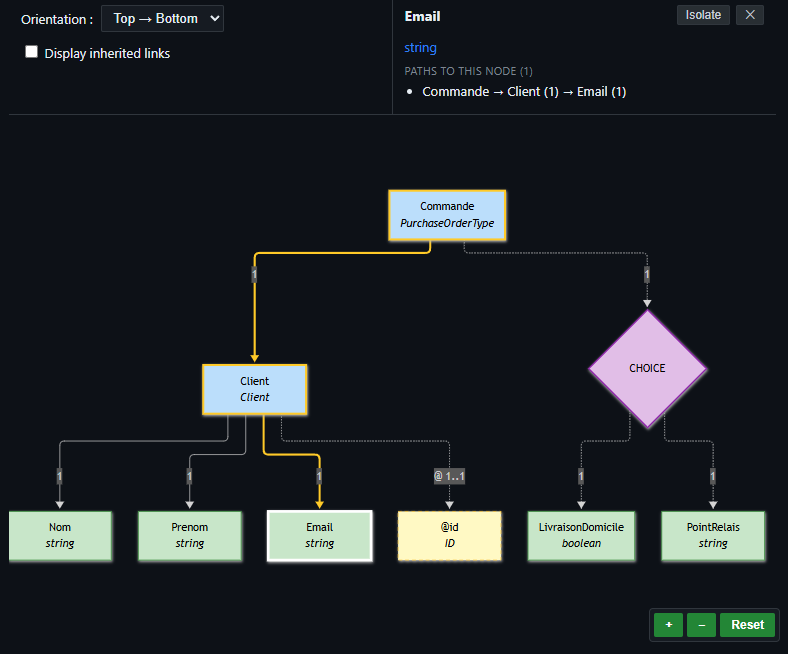
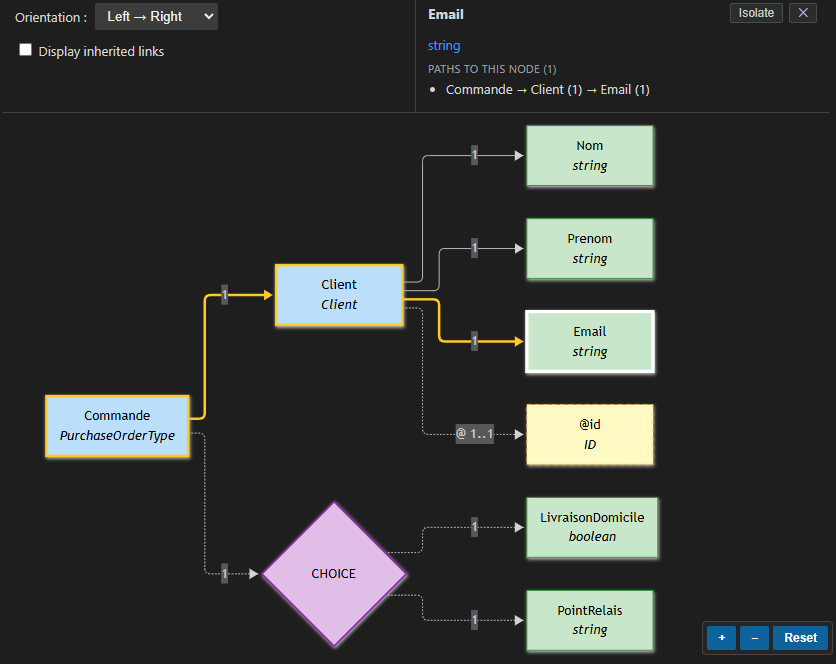
fix(image): autre couleur

diff --git a/README.md b/README.md
@@ -82,3 +82,4 @@ Here is a simple example of an XSD file:
     </xs:sequence>
   </xs:complexType>
 </xs:schema>
+```
